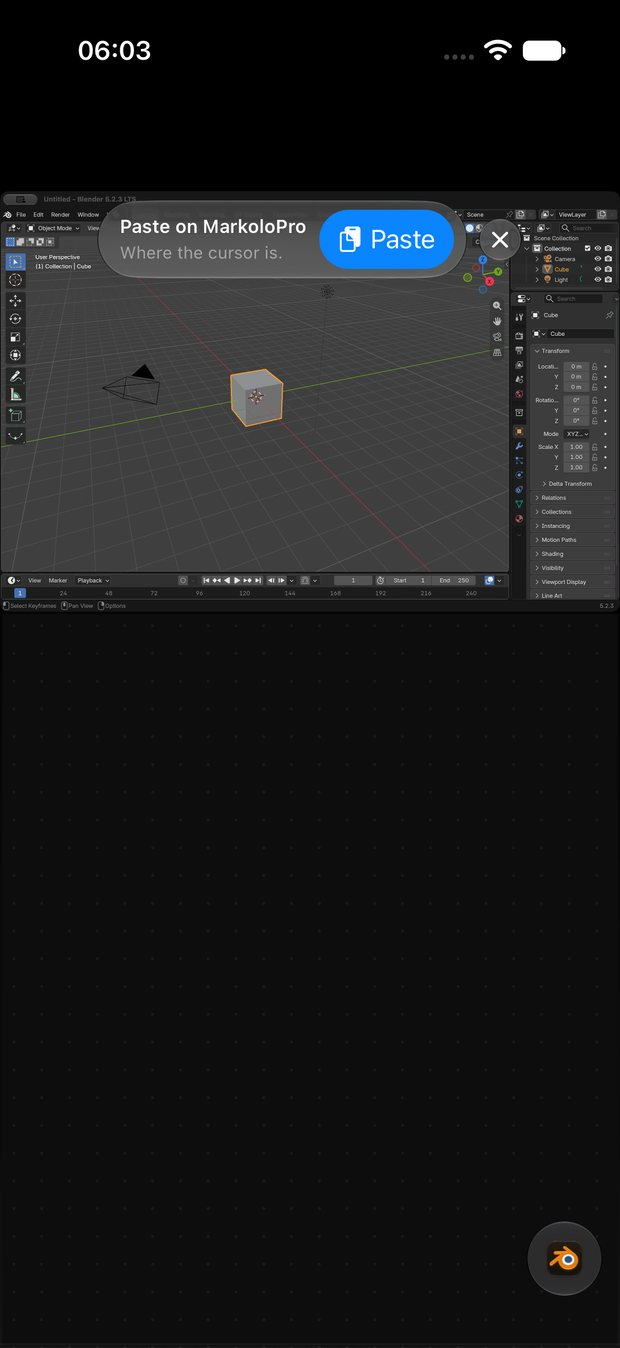
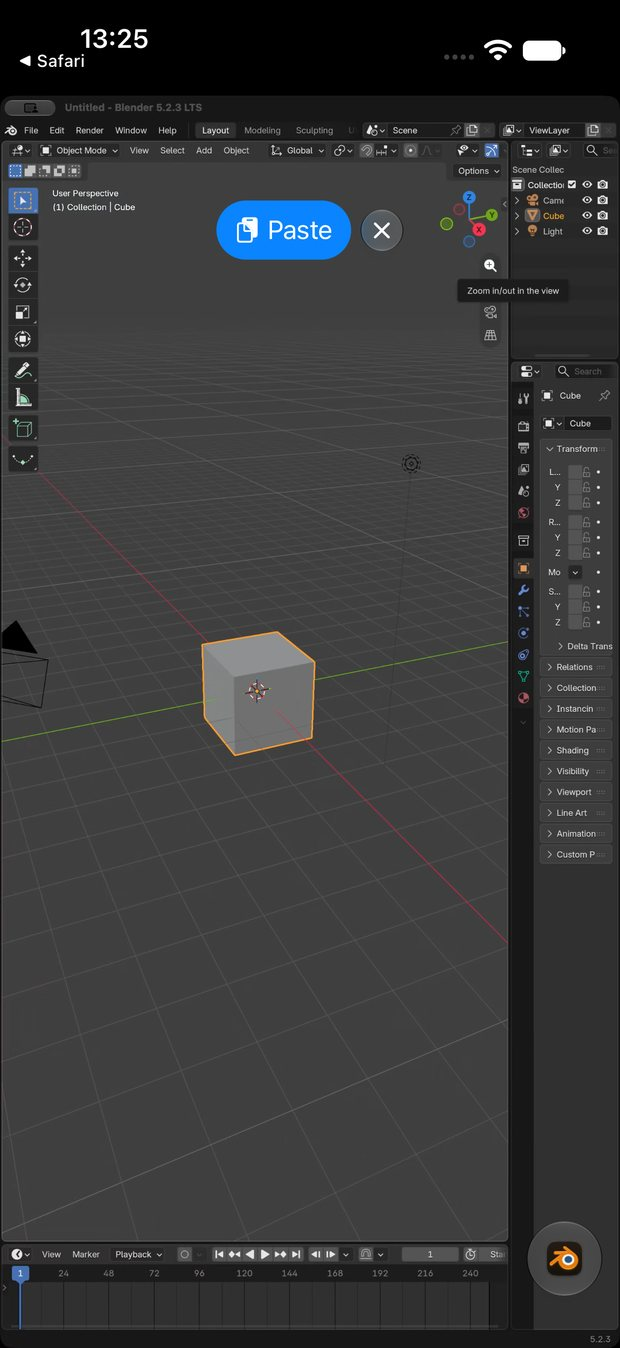
Simplify ClipboardChip to minimal Liquid Glass Paste pill and unify Natural Trackpad with TactileTrackpadWell SSOT

diff --git a/iOSClient/TactileTrackpadDeck.swift b/iOSClient/TactileTrackpadDeck.swift
@@ -19,13 +19,43 @@ import StreamProtocol
 /// trackpadFingers for Q1's flip, `latched` for modified clicks (consumed by a click as before) and
 /// sendGesture for the Mac's three- and four-finger gestures.
 struct TactileTrackpadWell: View {
+    enum Placement {
+        case floating
+        case docked(bottomInset: CGFloat)
+        case natural(bottomInset: CGFloat)
+
+        var cornerRadius: CGFloat {
+            switch self {
+            case .floating: return 14
+            case .docked, .natural: return TactileRadius.trackpad
+            }
+        }
+
+        var showsHint: Bool {
+            switch self {
+            case .docked: return true
+            case .floating, .natural: return false
+            }
+        }
+
+        var outerPadding: EdgeInsets {
+            switch self {
+            case .floating:
+                return EdgeInsets()
+            case .docked(let bottom):
+                return EdgeInsets(top: 0, leading: 6, bottom: max(6, bottom), trailing: 6)
+            case .natural(let bottom):
+                return EdgeInsets(top: 10, leading: 8, bottom: max(10, bottom), trailing: 8)
+            }
+        }
+    }
+
     @ObservedObject var client: StreamClient
     @Binding var latched: KeyModifiers
-    /// What the pad's vertical motion is measured against (nil: its own height), as the laptop
-    /// layout passed it — a stroke then moves the pointer as far down as across on a 16:10 picture.
     var verticalSpan: CGFloat? = nil
-    var cornerRadius: CGFloat = 22
-    var showsHint: Bool = true
+    var placement: Placement = .floating
+
+    private var cornerRadius: CGFloat { placement.cornerRadius }
 
     private var shape: RoundedRectangle {
         RoundedRectangle(cornerRadius: cornerRadius, style: .continuous)
@@ -43,7 +73,7 @@ struct TactileTrackpadWell: View {
                          onModifiersConsumed: { latched = [] },
                          verticalSpan: verticalSpan,
                          sendGesture: { client.sendGesture($0, fingers: $1) })
-            if showsHint {
+            if placement.showsHint {
                 VStack {
                     Spacer(minLength: 0)
                     Text("Drag to move the pointer. Tap to click, two fingers to scroll.")
@@ -57,15 +87,12 @@ struct TactileTrackpadWell: View {
         }
         .frame(maxWidth: .infinity, maxHeight: .infinity)
         .clipShape(shape)
-        // The recessed rim: a dark inner shadow at the top falling off to the bottom edge's
-        // specular line, so the well reads as sunk into the chassis rather than laid on it.
         .overlay(shape.strokeBorder(
-            LinearGradient(colors: [TactileTokens.recessShadowTop, TactileTokens.recessShadowMid,
-                                    TactileTokens.specularRimBottom],
+            LinearGradient(colors: [TactileTokens.specularRimTop.opacity(0.65),
+                                    TactileTokens.specularRimBottom.opacity(0.6),
+                                    TactileTokens.specularRimTop.opacity(0.35)],
                            startPoint: .top, endPoint: .bottom),
-            lineWidth: 1.5))
-        // The specular lip: a hair of light just inside the bottom edge, kept to the flat run so it
-        // never pokes past the corner's curve (the overlay draws outside the clip).
+            lineWidth: 1))
         .overlay(alignment: .bottom) {
             Rectangle()
                 .fill(TactileTokens.specularRimTop.opacity(0.35))
@@ -74,17 +101,16 @@ struct TactileTrackpadWell: View {
                 .padding(.bottom, 2)
                 .allowsHitTesting(false)
         }
+        .padding(placement.outerPadding)
     }
 }
 
-/// 1 pt dots on an 18 pt grid, etched into the anodized well: the board texture that says "this
-/// surface is the one you drag on", a touch dimmer than the old well's for the machined look.
 private struct EtchedDotGrid: View {
     var body: some View {
         Canvas { context, size in
             let step: CGFloat = 18
-            let radius: CGFloat = 1
-            let shading = GraphicsContext.Shading.color(.white.opacity(0.05))
+            let radius: CGFloat = 1.05
+            let shading = GraphicsContext.Shading.color(.white.opacity(0.085))
             var y = step / 2
             while y < size.height {
                 var x = step / 2
@@ -133,9 +159,8 @@ struct PhoneControlDeckView: View {
             )
             .simultaneousGesture(deckDrag)
 
-            TactileTrackpadWell(client: client, latched: $latched, cornerRadius: 26)
-                .padding(.horizontal, 6)
-                .padding(.bottom, max(6, bottomInset))
+            TactileTrackpadWell(client: client, latched: $latched,
+                                placement: .docked(bottomInset: bottomInset))
         }
         .frame(maxWidth: .infinity, maxHeight: .infinity, alignment: .top)
         .onGeometryChange(for: CGFloat.self) { $0.size.height } action: {
@@ -189,8 +214,7 @@ struct PadFloatingTrackpadView: View {
         let placed = clamped(anchor)
         VStack(spacing: 8) {
             gripStrip
-            TactileTrackpadWell(client: client, latched: $latched,
-                                cornerRadius: 14, showsHint: false)
+            TactileTrackpadWell(client: client, latched: $latched, placement: .floating)
         }
         .padding(10)
         .frame(width: Self.padSize.width, height: Self.padSize.height)

diff --git a/iOSClient/ClipboardChip.swift b/iOSClient/ClipboardChip.swift
@@ -29,32 +29,11 @@ struct ClipboardChip: View {
     }
 
     private var chip: some View {
-        TactileGlassGroup(spacing: 8) {
-            HStack(spacing: 8) {
-                HStack(spacing: 8) {
-                    VStack(alignment: .leading, spacing: 1) {
-                        Text(ClipboardPolicy.Copy.chipTitle(mac: mac))
-                            .font(.caption.weight(.semibold))
-                            .foregroundStyle(.primary)
-                            .lineLimit(1)
-                            .truncationMode(.middle)
-                        Text(ClipboardPolicy.Copy.chipSubtitle(rightAway: pasteRightAway))
-                            .font(.caption2)
-                            .foregroundStyle(.secondary)
-                            .lineLimit(1)
-                    }
-                    .layoutPriority(-1)
-                    .accessibilityElement(children: .ignore)
+        TactileGlassGroup(spacing: 6) {
+            HStack(spacing: 6) {
+                ClipboardPasteButton(client: client)
+                    .controlSize(.small)
                     .accessibilityLabel(ClipboardPolicy.Copy.chipSpoken(mac: mac, device: StreamClient.deviceWord, rightAway: pasteRightAway))
-                    .accessibilityAddTraits(.isStaticText)
-
-                    ClipboardPasteButton(client: client)
-                        .controlSize(.small)
-                }
-                .padding(.leading, 14)
-                .padding(.trailing, 8)
-                .padding(.vertical, 6)
-                .modifier(ClipboardGlassSurface())
 
                 dismissButton
             }

diff --git a/iOSClient/StreamScreen.swift b/iOSClient/StreamScreen.swift
@@ -691,7 +691,8 @@ struct StreamScreen: View {
             }
 
             if let naturalSplit {
-                TactileTrackpadWell(client: client, latched: $latched, cornerRadius: 0, showsHint: false)
+                TactileTrackpadWell(client: client, latched: $latched,
+                                    placement: .natural(bottomInset: insets.bottom))
                     .frame(height: naturalSplit.padHeight)
             }
         }
